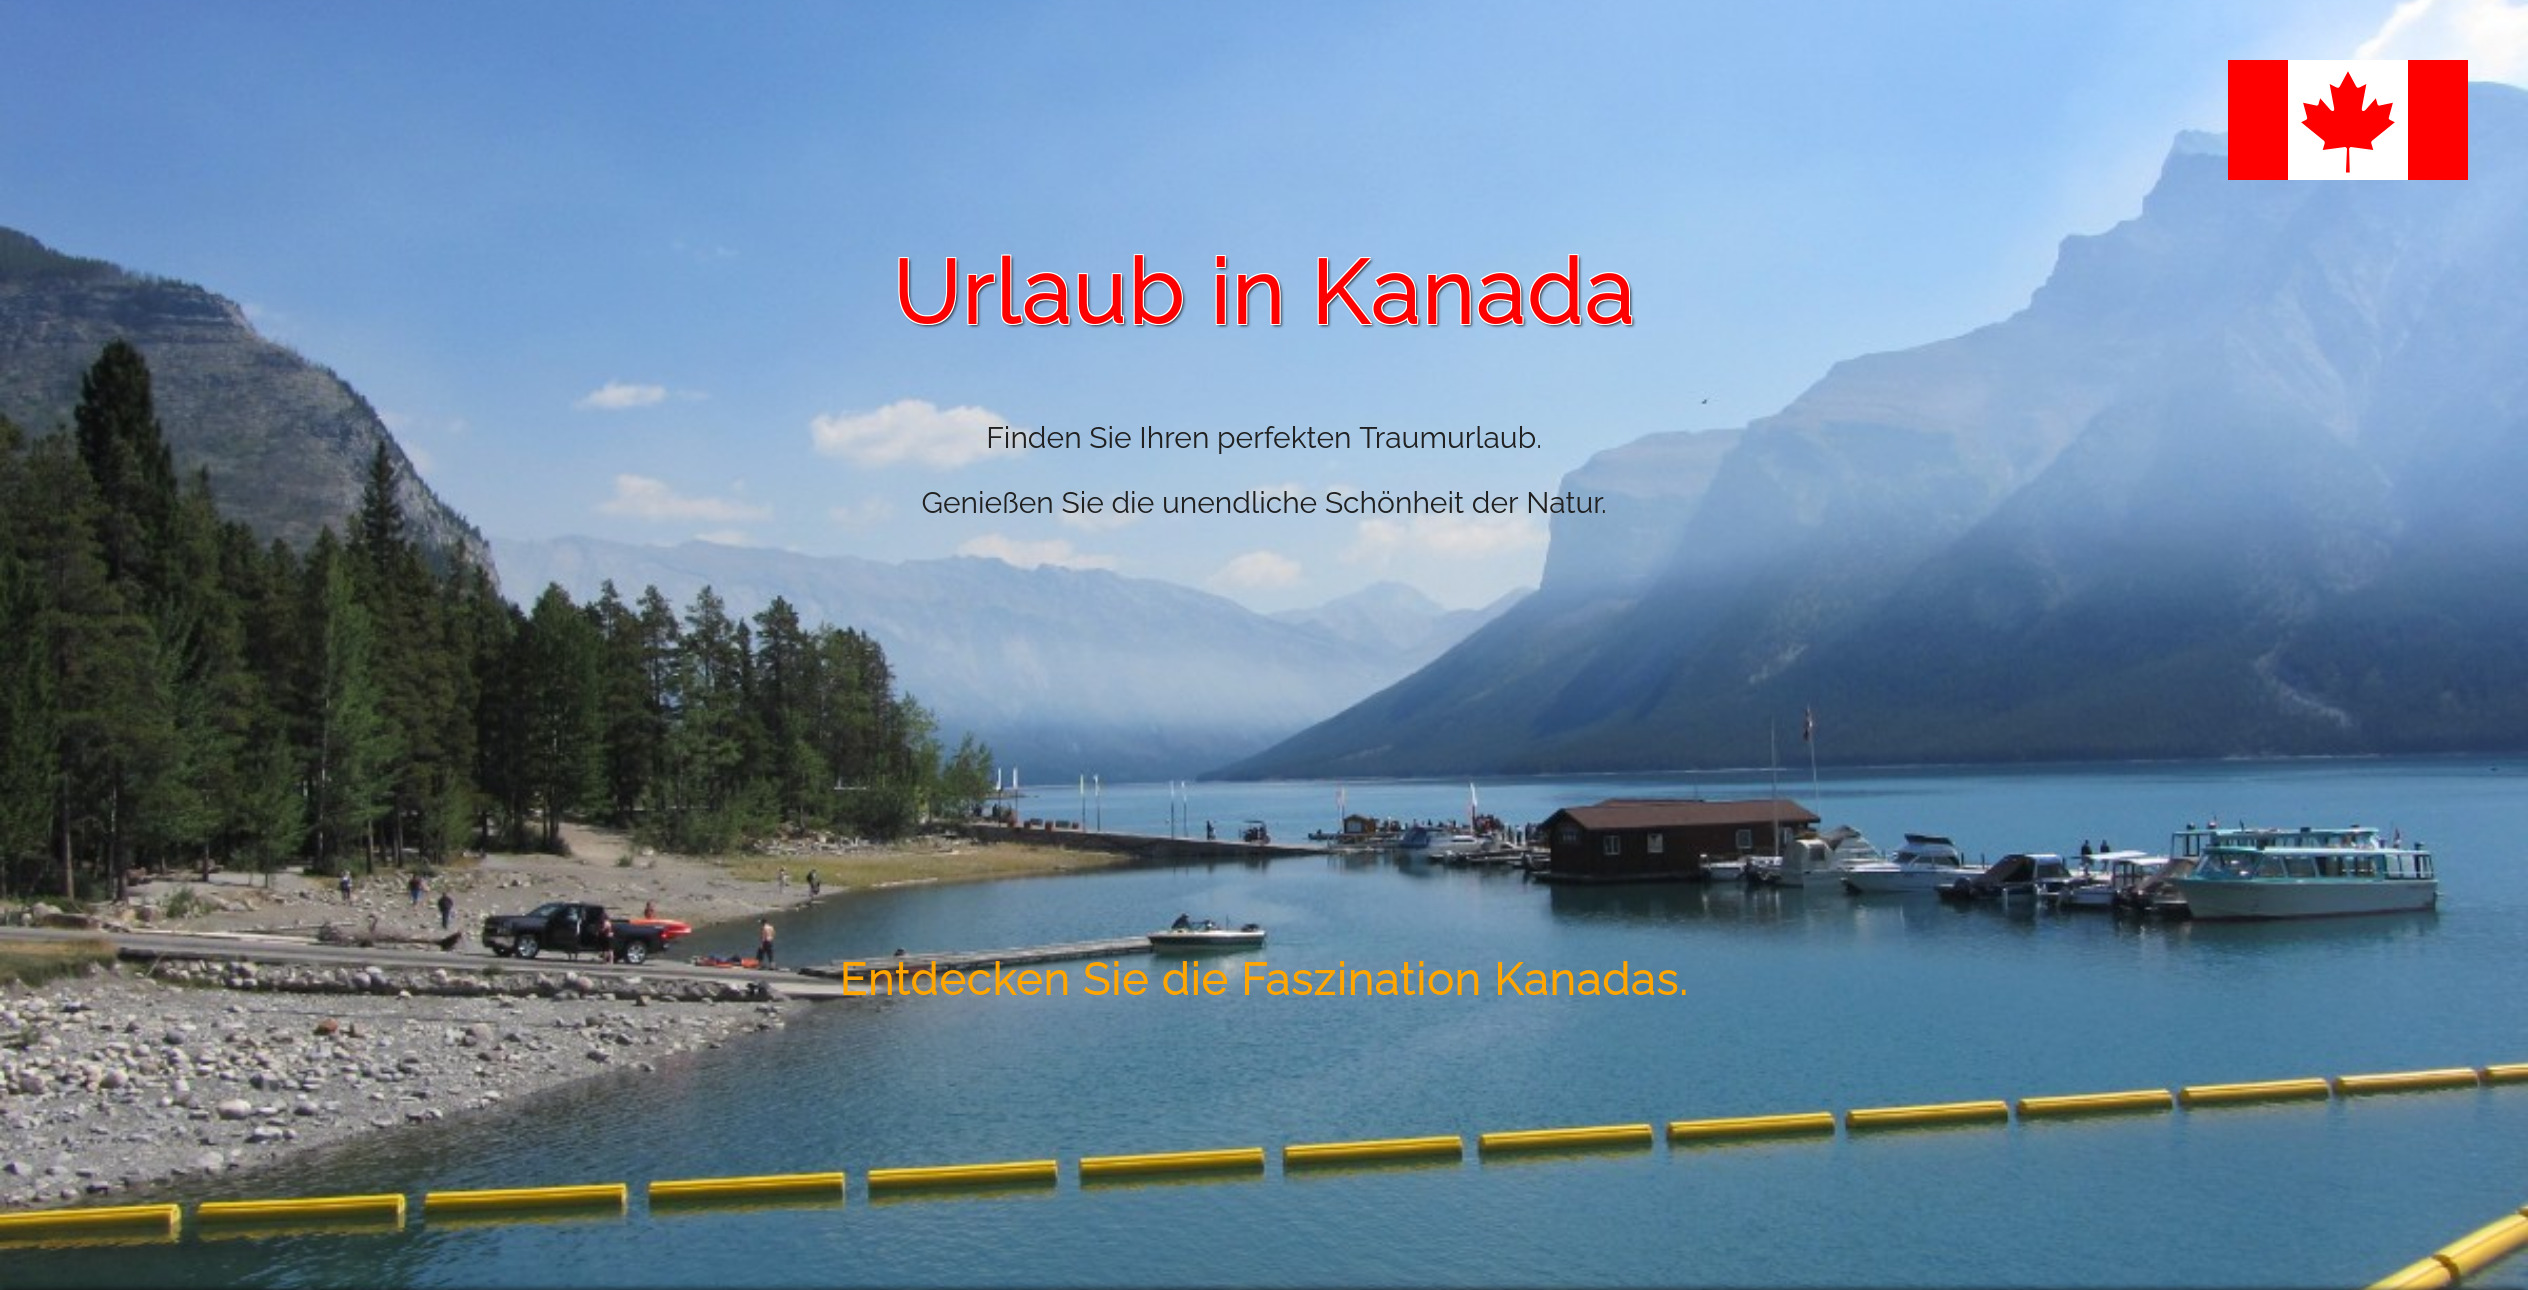
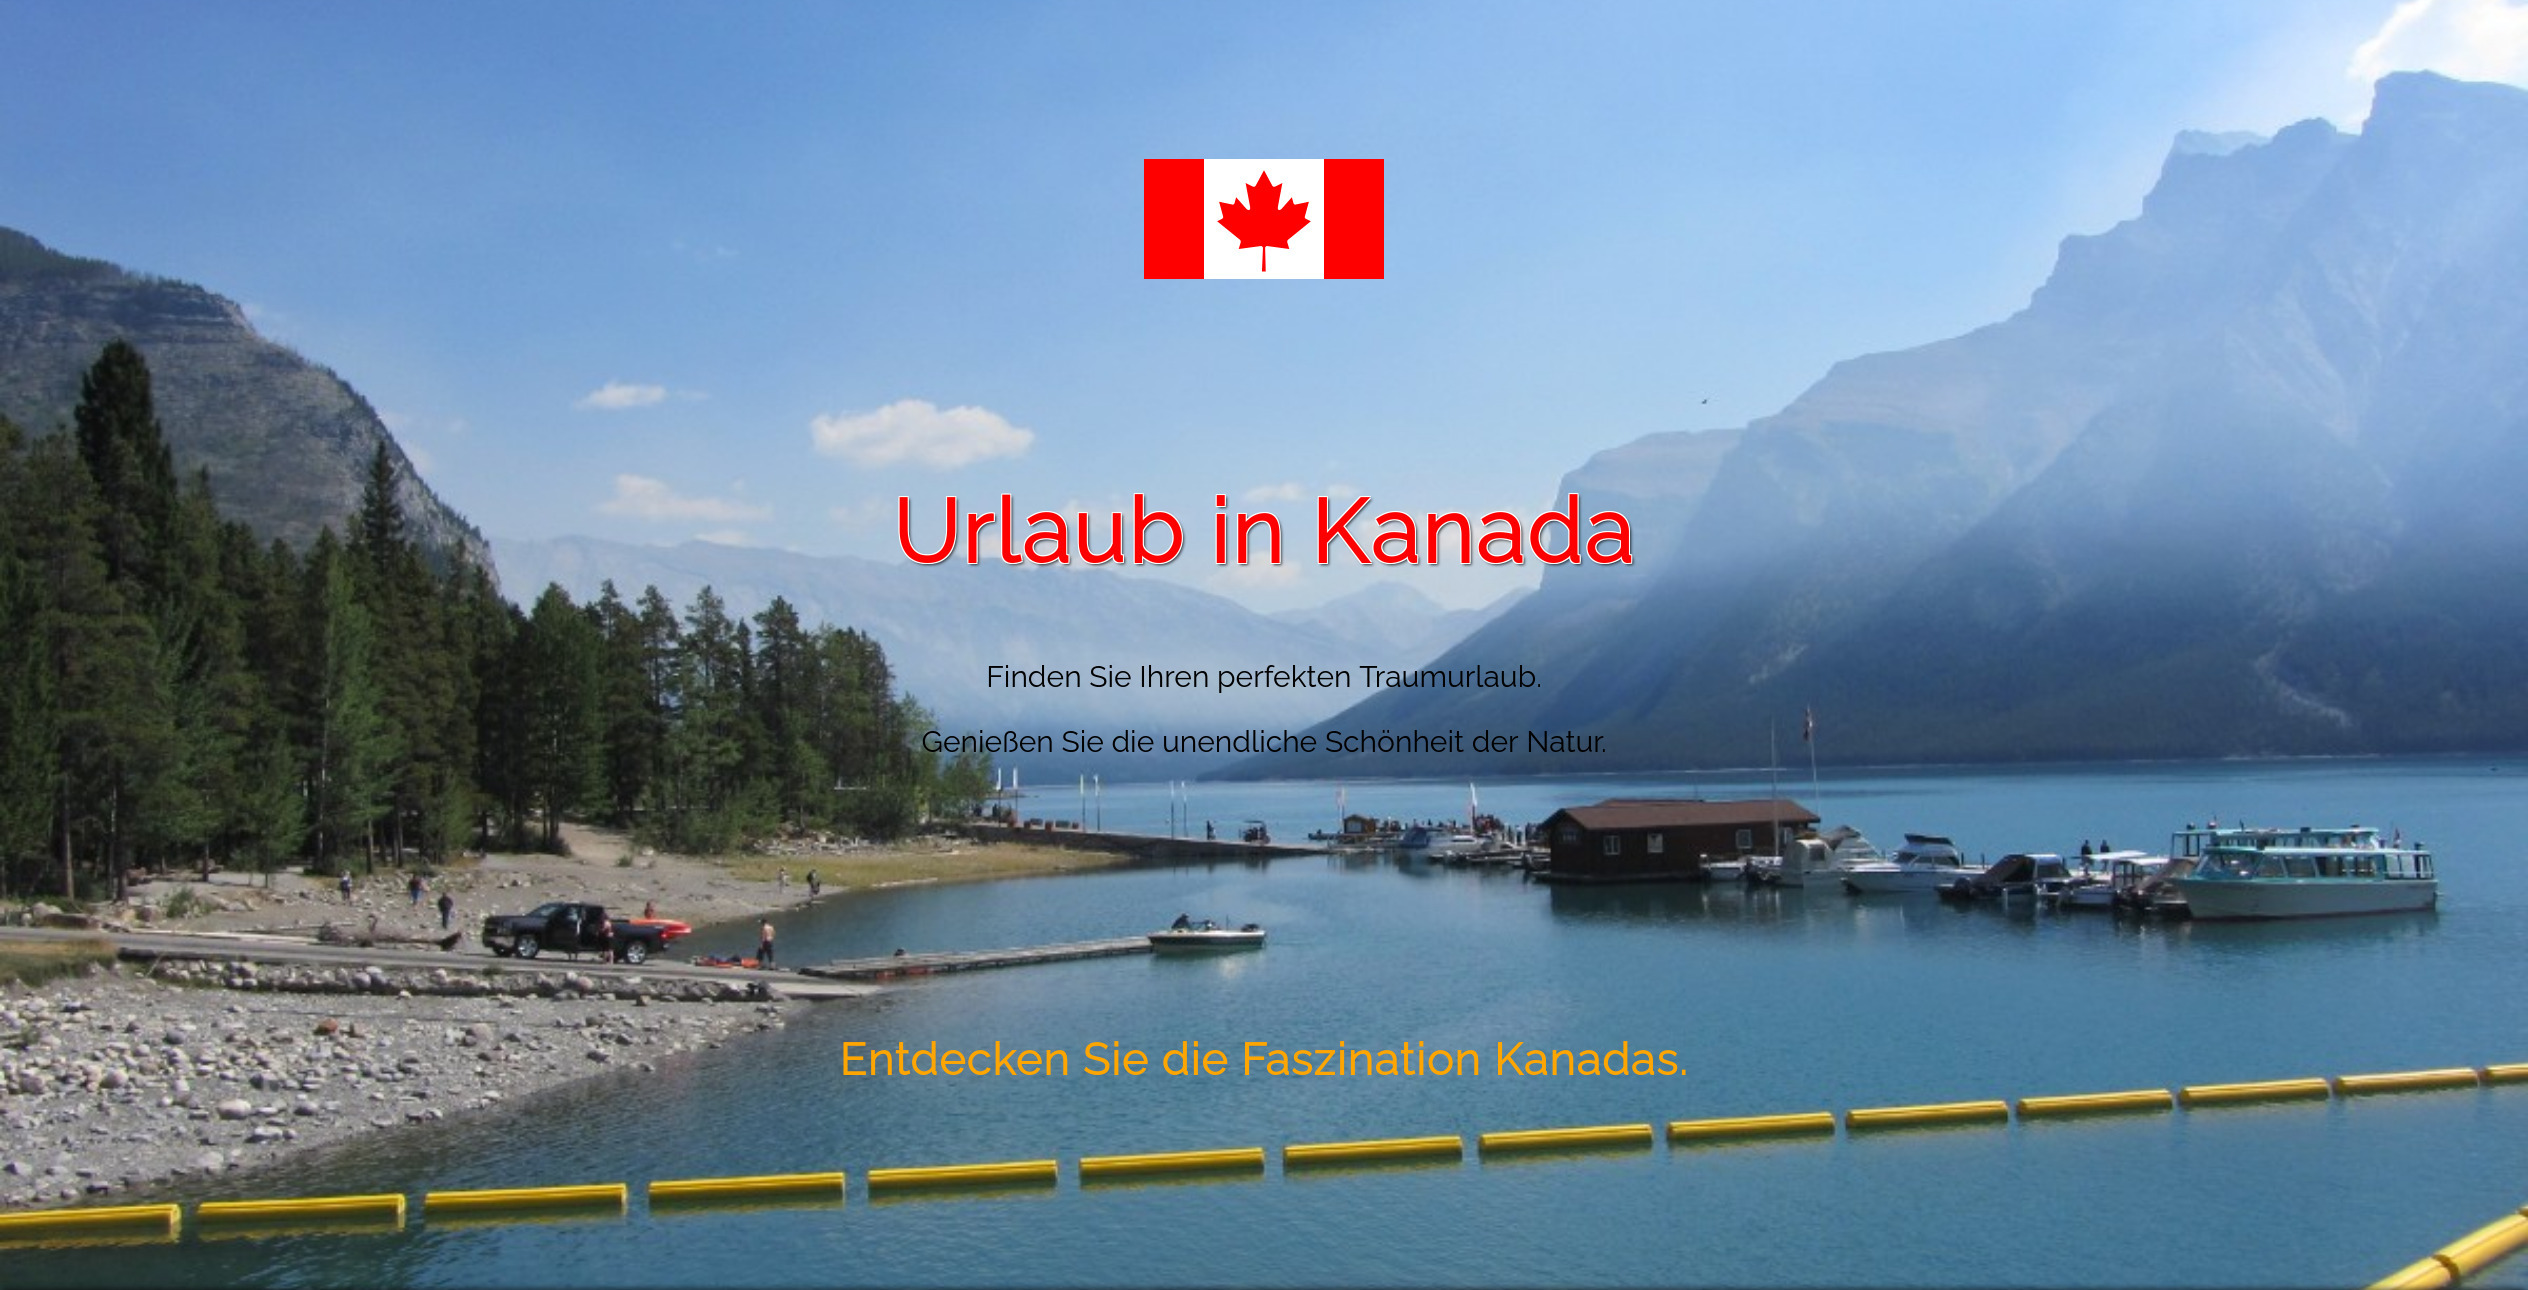
One-Pager ansprechender gestaltet

diff --git a/1 HTML und CSS/Aufgaben/One-Pager/Loesung/style.css b/1 HTML und CSS/Aufgaben/One-Pager/Loesung/style.css
@@ -4,9 +4,6 @@
 html {
     font-family: 'Raleway', sans-serif;
     font-size: 18pt;
-    background: rgb(235, 235, 225);
-
-    color: rgb(32, 32, 32);
 }
 
 body {
@@ -25,6 +22,9 @@ section {
 
     padding: 2em;
     box-sizing: border-box;
+
+    position: sticky;
+    top: 0;
 }
 
 /* Slide 1 */
@@ -33,7 +33,6 @@ section {
     height: 100vh;
     text-align: center;
 
-    position: relative;
     z-index: -10;
 
     display: flex;
@@ -45,10 +44,6 @@ section {
 }
 
 #slide1 .logo {
-    position: absolute;
-    top: 2em;
-    right: 2em;
-
     width: 10rem;
 }
 
@@ -75,6 +70,9 @@ footer {
 
     padding: 2em;
     box-shadow: 0 -5px 5px -3px rgba(0,0,0,0.5);
+
+    background: rgb(235, 235, 225);
+    color: rgb(32, 32, 32);
 }
 
 footer h2,

diff --git a/1 HTML und CSS/Aufgaben/One-Pager/Aufgabe/style.css b/1 HTML und CSS/Aufgaben/One-Pager/Aufgabe/style.css
@@ -25,6 +25,9 @@ section {
 
     padding: 2em;
     box-sizing: border-box;
+
+    position: sticky;
+    top: 0;
 }
 
 /* Slide 1 */
@@ -33,7 +36,6 @@ section {
     height: 100vh;
     text-align: center;
 
-    position: relative;
     z-index: -10;
 
     display: flex;
